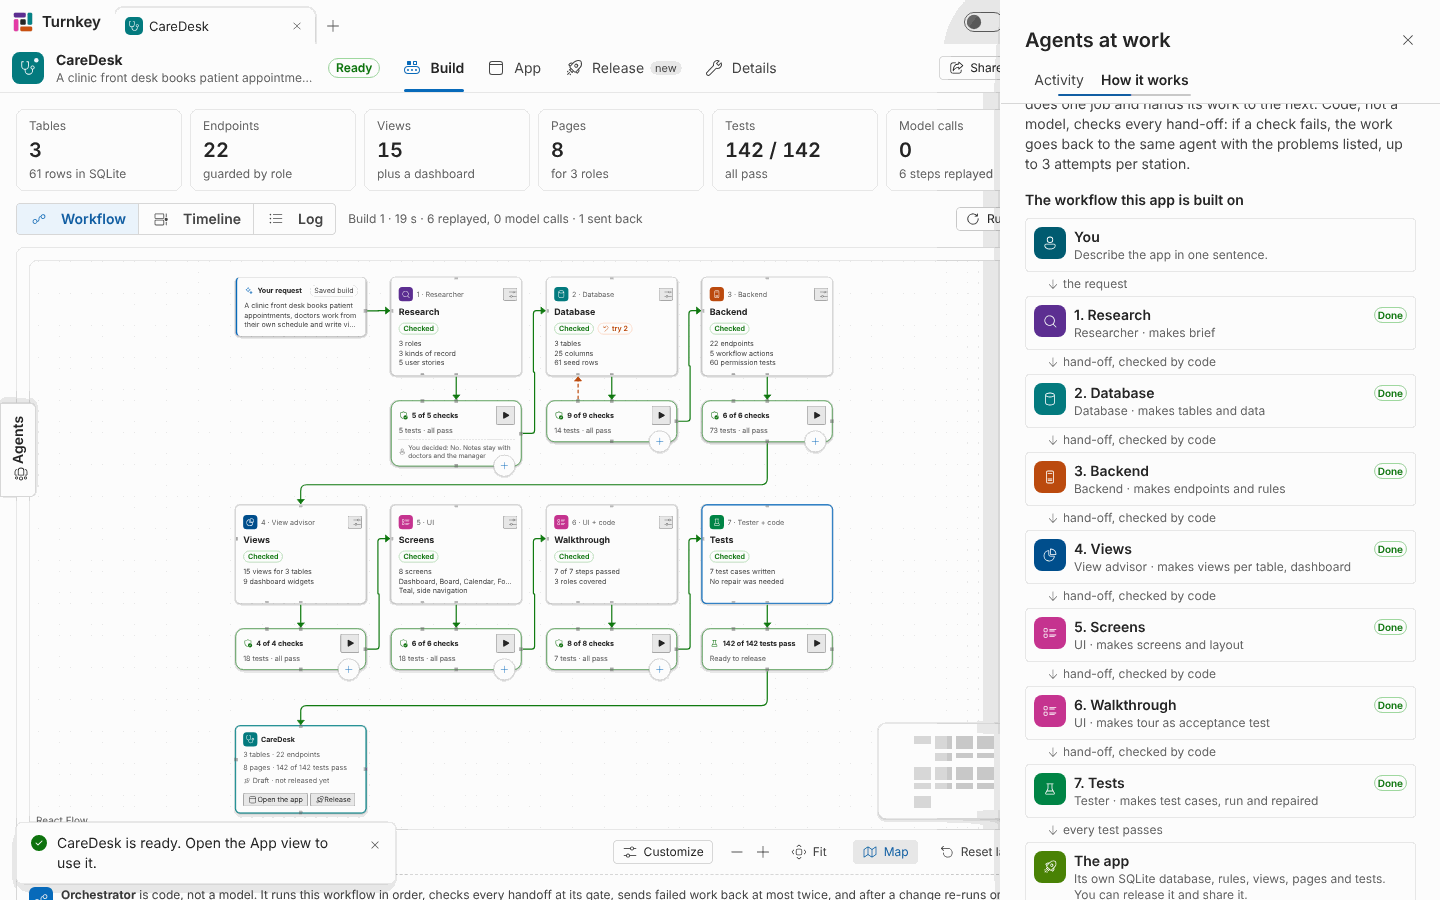
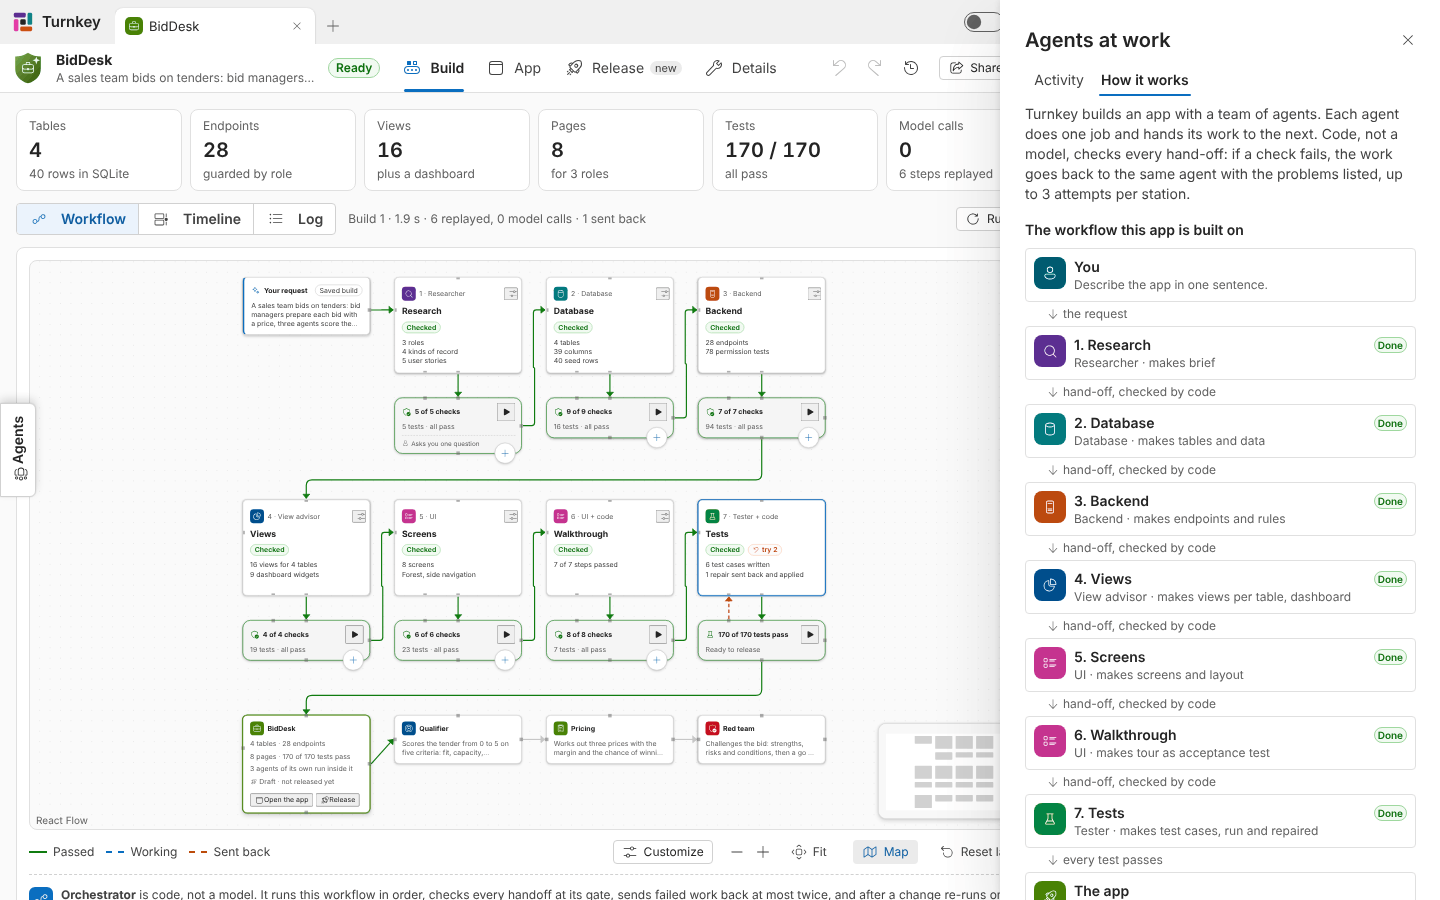
README: fresh screenshots of the Fluent UI and a demo GIF from sentence to app
Nine light-mode screenshots from a production build in Demo (canvas, chat cards,
approval pause, run timeline, Tester repair, how it works, Bid room, export,
version history) and an 800 px GIF of a build from a typed sentence to the
running app. PNGs are cut to 256 colours (about 100 KB each), the GIF is 1.2 MB.
scripts/readme-media.mjs takes them again.

Claude-Session: https://claude.ai/code/session_01SPhXm3DYpxs5v9DMasTJ8D

diff --git a/README.md b/README.md
@@ -6,9 +6,9 @@ Solo entry for the SSI Agent-A-Thon 2026.
 
 **Live app:** https://turnkey-bay.vercel.app/ (no login; **Demo** replays saved builds and calls no model)
 
-![The Build tab for the saved clinic build: six agents on the workflow canvas, a check gate under each, 142 of 142 tests passing](docs/images/build-tab.png)
+![A Demo build: a sentence about a sales team that bids on tenders is typed on Home, the agents work through the workflow canvas while their cards fill the chat, the Tester catches a slip and the Backend agent repairs it, then the built app opens on its Bid room](docs/images/demo.gif)
 
-_The Build tab after the saved "Clinic appointments" build in Demo. Each agent is a node, each check is a gate under it, the chat on the right holds the agents' cards and suggested changes._
+_From one sentence to the running app, played at twice its speed. In Demo the sentence picks the closest saved build, so no model is called._
 
 ## See it in 60 seconds
 
@@ -18,6 +18,10 @@ _The Build tab after the saved "Clinic appointments" build in Demo. Each agent i
    slip and the Backend agent repairs it. Open **Agents** (activity panel) to see every step, tool call and hand-off.
 3. Open the **App** tab: the app it built, with its own sign-in per role, and a **Bid room** where the app's own three
    agents work on a tender.
+
+![The Build tab after the Sales bidding desk build: seven stations on the workflow canvas with a check gate under each, the app's own three agents below them, and 170 of 170 tests passing](docs/images/build-tab.png)
+
+_The Build tab after the build. Each agent is a node and each check is a gate under it. The chat on the right holds the agents' cards and suggested changes._
 
 A longer walk-through is below, and the three-minute demo script is in
 [`docs/hackathon/demo-video.md`](docs/hackathon/demo-video.md).
@@ -66,9 +70,28 @@ are in [`docs/architecture/overview.md`](docs/architecture/overview.md).
 
 _The Agents panel explains the team in the app itself; its Activity tab lists every step, tool call and hand-off as it happens._
 
-![The Tester finds a failing test, the Backend agent repairs it, all 170 tests pass](docs/images/tester-repair.png)
+![The Tester's panel: run 1 fails one of 170 tests, the Backend agent repairs it, run 2 passes all 170, and the six test cases the Tester wrote](docs/images/tester-repair.png)
 
-_The Tester's first run fails one case (a bid manager could delete a tender); the Backend agent repairs it and run 2 passes. (Screenshot from before the Fluent UI change; the steps are the same.)_
+_The Tester's first run fails one case (a bid manager could delete a tender); the Backend agent repairs it and run 2 passes._
+
+<table>
+  <tr>
+    <td width="50%"><img src="docs/images/chat-cards.png" alt="A change from chat: the Orchestrator's change plan card with the SQL it will run and the stations that run again, then an Applied card"></td>
+    <td width="50%"><img src="docs/images/approval.png" alt="The build waits for the owner after Views: a Your approval node on the canvas and an approval card in chat with Approve and continue, See what was made and Stop here"></td>
+  </tr>
+  <tr>
+    <td><em>A change from chat. The Orchestrator shows its plan as a card; only the stations the change touches run again.</em></td>
+    <td><em>An approval the owner placed after Views. The build waits on the canvas and in chat until the owner answers.</em></td>
+  </tr>
+  <tr>
+    <td><img src="docs/images/timeline.png" alt="The run timeline: one lane per agent and the Orchestrator's code checks, with the cost line saying a saved build made no model calls"></td>
+    <td><img src="docs/images/history.png" alt="Version history: every change saved as a version with the agents or person who made it, with Restore, Undo and Redo"></td>
+  </tr>
+  <tr>
+    <td><em>The run timeline, one lane per agent. The line on top gives the model calls, tokens and cost; a saved build spends nothing.</em></td>
+    <td><em>Version history. Every change is a version that names the agents or the person who made it.</em></td>
+  </tr>
+</table>
 
 ## What it builds
 
@@ -83,7 +106,7 @@ agent that can send the work back once, and a pause where a person adds a point.
 
 ![The Bid room: three agents have scored a tender, priced it and challenged it](docs/images/bid-room.png)
 
-_The Bid room of the built BidDesk app, with the three agents' results for one tender. All data is made up. (Screenshot from before the Fluent UI change.)_
+_The Bid room of the built BidDesk app, with the three agents' verdict for one tender. All data is made up._
 
 ## The five-minute walk-through
 
@@ -101,6 +124,10 @@ _The Bid room of the built BidDesk app, with the three agents' results for one t
    only the stations the change touches run again, and the tests are regenerated.
 5. Open **Release**, release version 1.0 (every test runs first), and press **Share by link**. Turn on debug mode
    (bug icon in the title bar) to see AG-UI events, tool calls, SQL and model usage.
+
+![The Release tab after version 1.0: share and install, and Export the deliverable as a Markdown document, a printable PDF, a web page, the SQLite database or everything in a zip](docs/images/export.png)
+
+_The Release tab. One deliverable document is made from the app as it is now, in each format._
 
 To see Live agents build from your own words, switch **Live** on in the title bar and type a sentence on a new tab.
 Each Live session is capped at 40 model calls.
@@ -194,6 +221,10 @@ Check a deployment:
 npm run check                 # secrets scan, lint, typecheck, unit tests
 npm run test:e2e -- demo      # one browser flow; CI runs all twelve
 ```
+
+The README's pictures come from `scripts/readme-media.mjs`: start a production build (`npm run build`, then
+`PORT=3333 npx next start`) and run `TK_URL=http://localhost:3333 node scripts/readme-media.mjs`. It needs ffmpeg, uses
+Demo data only, and writes the PNGs and `demo.gif` (a sentence typed on Home, through the build, to the running app) to `docs/images/`.
 
 ## The spike
 
